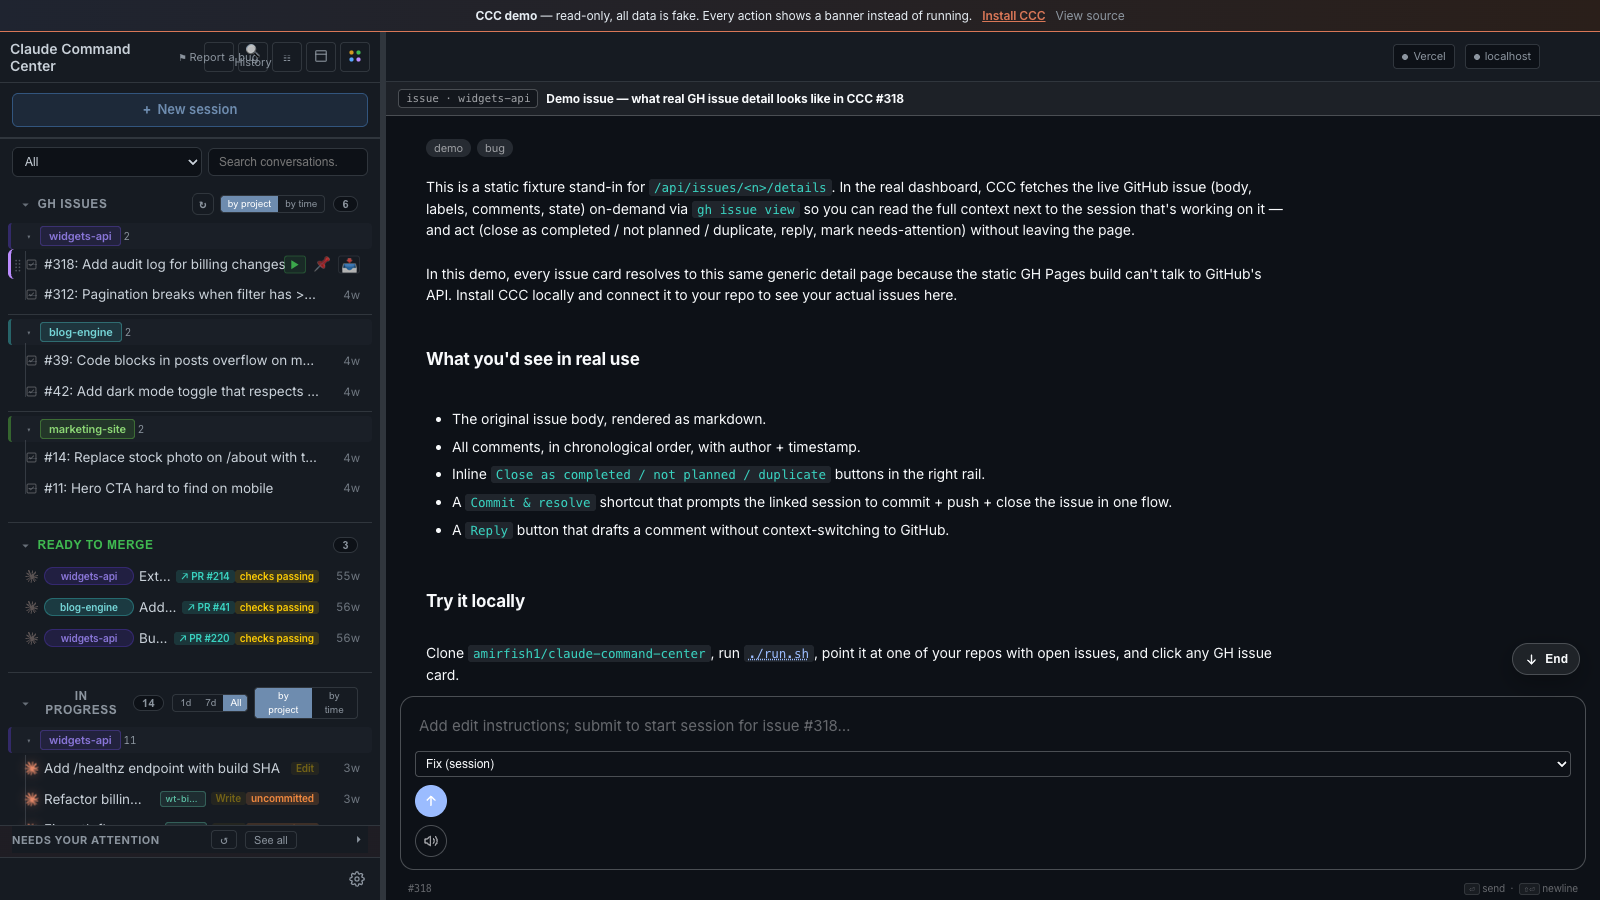
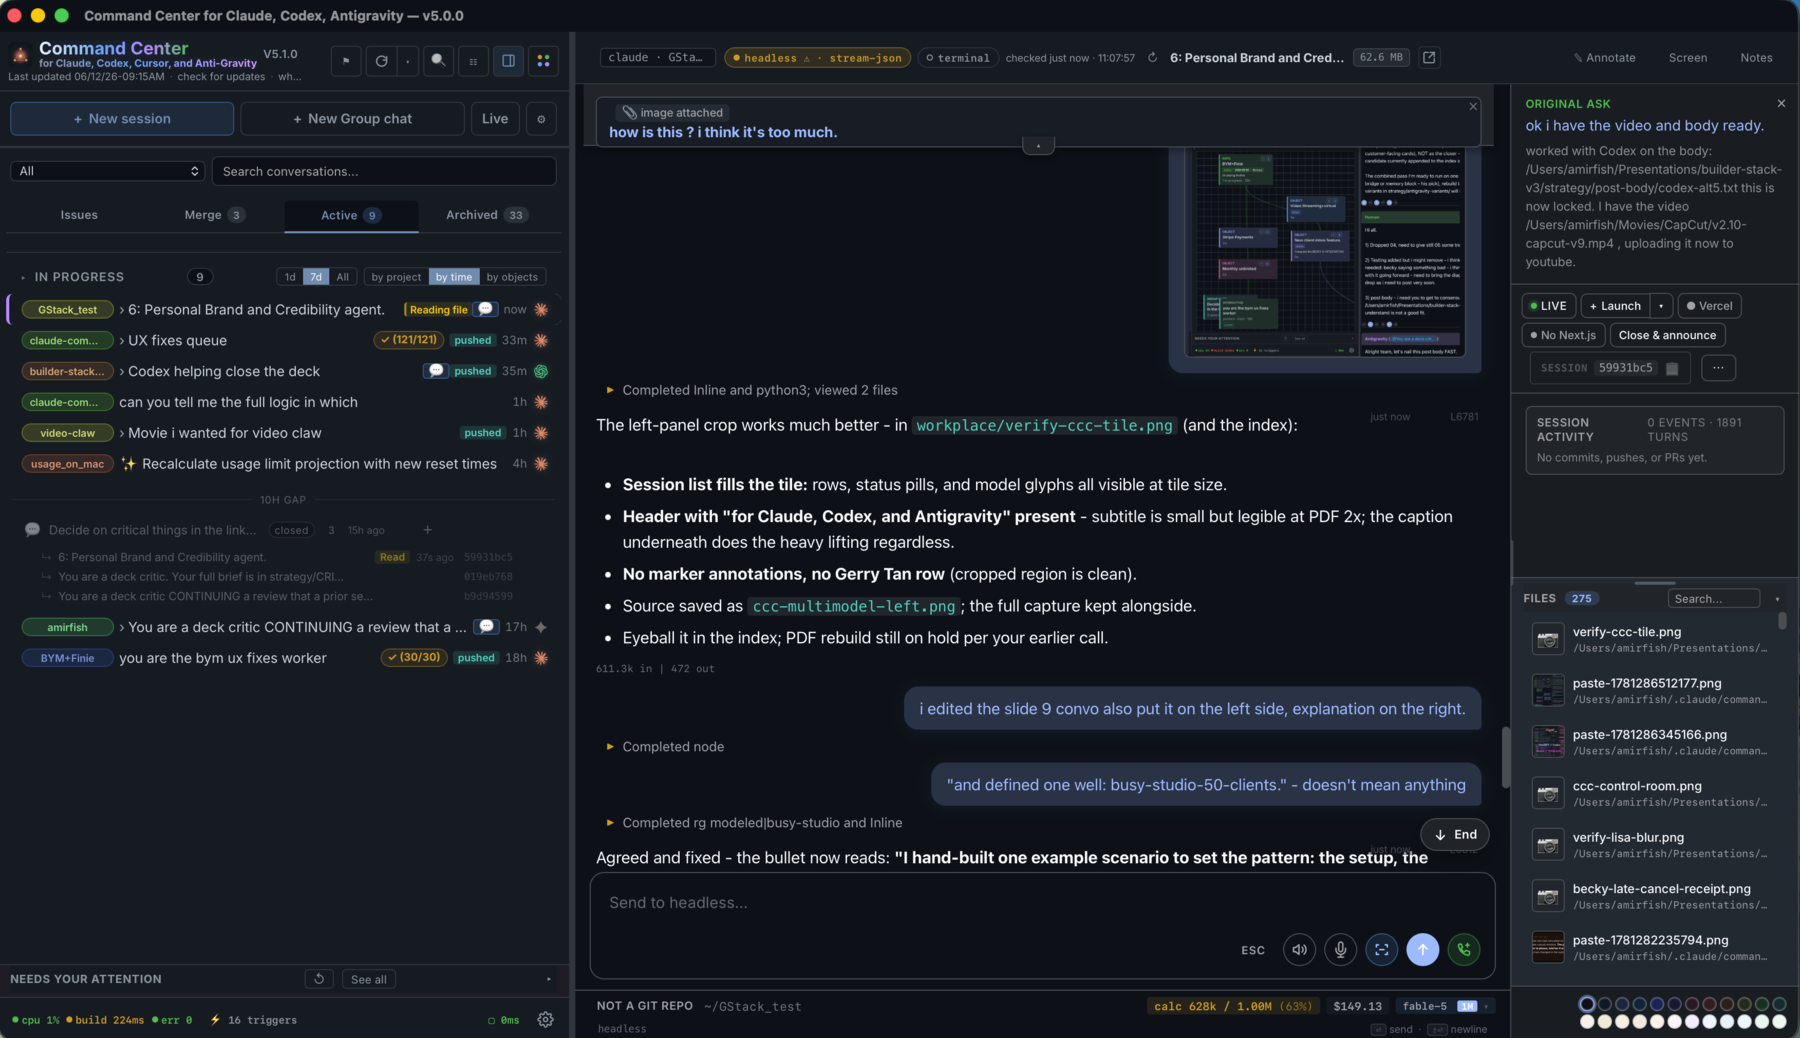
docs: use full CCC screenshot

diff --git a/docs/index.html b/docs/index.html
@@ -176,7 +176,7 @@
     100% { box-shadow: 0 0 0 0 rgba(77, 213, 153, 0); }
   }
   .demo-body { position: relative; aspect-ratio: 16 / 9; background: #0a0c0f; }
-  .demo-body img { display: block; width: 100%; height: 100%; object-fit: cover; }
+  .demo-body img { display: block; width: 100%; height: 100%; object-fit: contain; background: #0a0c0f; }
   .demo-placeholder {
     position: absolute; inset: 0; display: flex; align-items: center; justify-content: center;
     color: var(--fg-mute); font-family: var(--mono); font-size: 13px; text-align: center; padding: 24px;
@@ -464,7 +464,7 @@
           <span class="live"><span class="pulse"></span>3 sessions live · 12 total</span>
         </div>
         <div class="demo-body">
-          <img src="./images/demo.png?v=6" alt="CCC dashboard showing Claude, Codex, Cursor, and Antigravity sessions in one view" onerror="this.style.display='none'; this.nextElementSibling.style.display='flex';">
+          <img src="./images/demo.png?v=7" alt="CCC dashboard showing Claude, Codex, Cursor, and Antigravity sessions in one view" onerror="this.style.display='none'; this.nextElementSibling.style.display='flex';">
           <div class="demo-placeholder" style="display:none;">
             Open the read-only demo to see seeded sessions and workflows.
           </div>